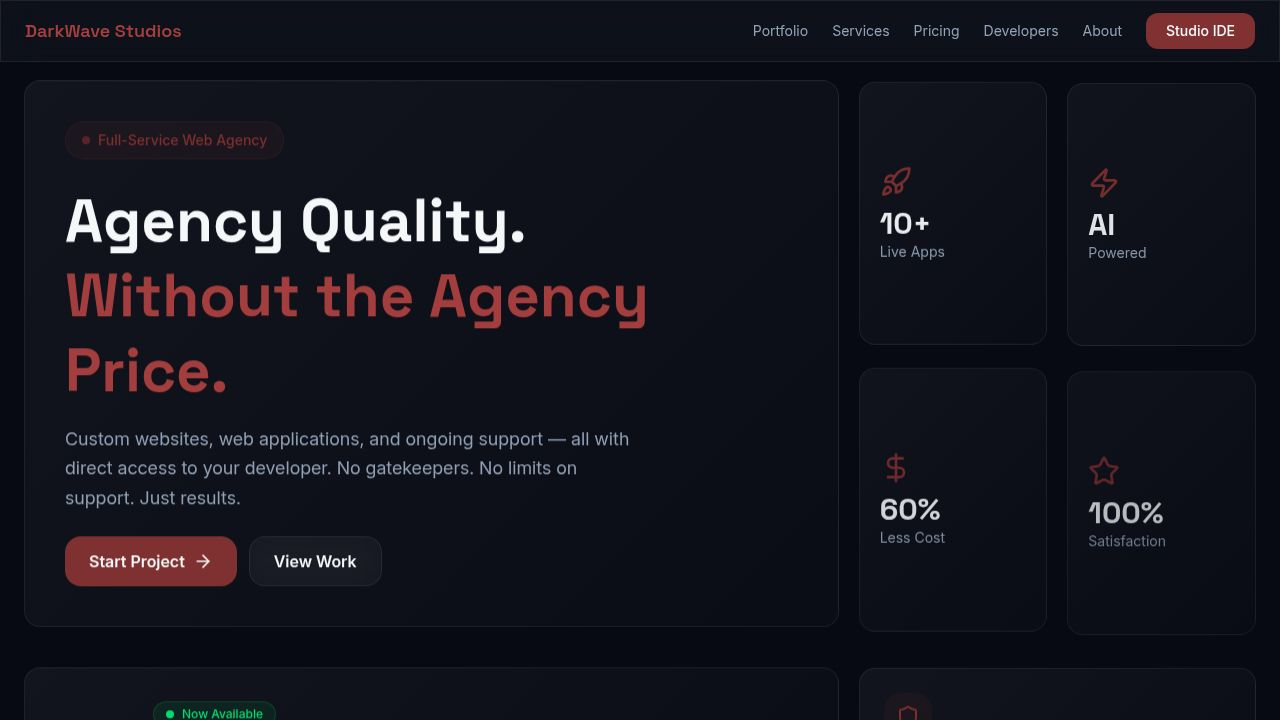
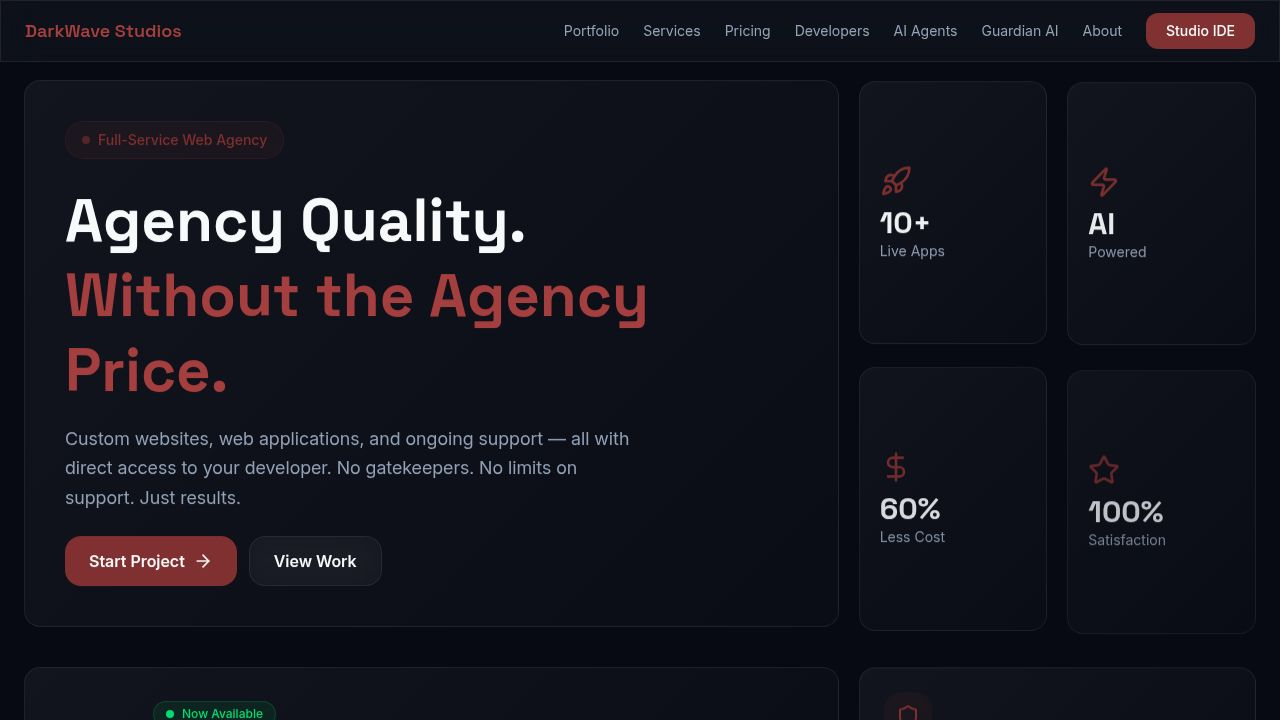
Add AI Agent Marketplace to navigation and developer pages
Integrate the AI Agent Marketplace by adding links to the main navigation (desktop and mobile), footer, and the Developers page. Update replit.md to document this new integration.

Replit-Commit-Author: Agent
Replit-Commit-Session-Id: fd631e83-bc81-4f88-98c7-1c24e1e757e1
Replit-Commit-Checkpoint-Type: full_checkpoint
Replit-Commit-Event-Id: db26af7d-c20c-48e6-8ca2-0f40b88cb56d
Replit-Commit-Screenshot-Url: https://storage.googleapis.com/screenshot-production-us-central1/58d7295e-4eca-40d3-ac5d-67adee4e19c6/fd631e83-bc81-4f88-98c7-1c24e1e757e1/9StZjAx
Replit-Helium-Checkpoint-Created: true

diff --git a/client/src/pages/Home.tsx b/client/src/pages/Home.tsx
@@ -325,6 +325,17 @@ export default function Home() {
                 >
                   Developers
                 </Link>
+                <a 
+                  href="https://dwsc.io/ai-agents" 
+                  target="_blank"
+                  rel="noopener noreferrer"
+                  onClick={() => setMobileMenuOpen(false)}
+                  className="text-sm text-foreground hover:text-primary transition-colors py-2 pl-3 flex items-center gap-2"
+                  data-testid="nav-ai-agents-mobile"
+                >
+                  AI Agents
+                  <ExternalLink className="w-3 h-3" />
+                </a>
                 <Link 
                   href="/hub" 
                   onClick={() => setMobileMenuOpen(false)}
@@ -417,6 +428,7 @@ export default function Home() {
               <Link href="/services" className="text-sm text-muted-foreground hover:text-foreground transition-colors" data-testid="nav-services">Services</Link>
               <Link href="/payment" className="text-sm text-muted-foreground hover:text-foreground transition-colors" data-testid="nav-pricing">Pricing</Link>
               <Link href="/developers" className="text-sm text-muted-foreground hover:text-foreground transition-colors" data-testid="nav-developers">Developers</Link>
+              <a href="https://dwsc.io/ai-agents" target="_blank" rel="noopener noreferrer" className="text-sm text-muted-foreground hover:text-foreground transition-colors" data-testid="nav-ai-agents">AI Agents</a>
               <Link href="/guardian-ai" className="text-sm text-muted-foreground hover:text-foreground transition-colors" data-testid="nav-guardian">Guardian AI</Link>
               <Link href="/about" className="text-sm text-muted-foreground hover:text-foreground transition-colors" data-testid="nav-about">About</Link>
               <a 
@@ -1038,6 +1050,15 @@ export default function Home() {
                   <Link href="/developers" className="hover:text-primary transition-colors">Developers</Link>
                 </div>
                 <div className="flex flex-col gap-2">
+                  <a 
+                    href="https://dwsc.io/ai-agents" 
+                    target="_blank"
+                    rel="noopener noreferrer"
+                    className="text-xs lg:text-sm text-muted-foreground hover:text-foreground transition-colors flex items-center gap-1" 
+                    data-testid="footer-link-ai-agents"
+                  >
+                    AI Agents <ExternalLink className="w-3 h-3" />
+                  </a>
                   <Link href="/hub" className="text-xs lg:text-sm text-muted-foreground hover:text-foreground transition-colors" data-testid="footer-link-hub">Trust Layer Hub</Link>
                   <Link href="/guardian-ai" className="text-xs lg:text-sm text-muted-foreground hover:text-foreground transition-colors" data-testid="footer-link-guardian">Guardian AI</Link>
                   <a 

diff --git a/client/src/pages/Developers.tsx b/client/src/pages/Developers.tsx
@@ -17,6 +17,16 @@ import { SEOHead, BreadcrumbSchema } from "@/components/SEOHead";
 
 const developerProducts = [
   {
+    id: "agents",
+    title: "AI Agent Marketplace",
+    description: "Create, deploy, and discover autonomous AI agents. Build trading bots, DeFi agents, NFT snipers, and more.",
+    icon: Bot,
+    href: "https://dwsc.io/ai-agents",
+    external: true,
+    gradient: "from-emerald-500 to-teal-500",
+    features: ["Agent builder", "Smart contract integration", "Revenue sharing", "Guardian AI certified"]
+  },
+  {
     id: "hub",
     title: "Trust Layer Hub",
     description: "Blockchain-verified widget marketplace with 12+ embeddable components for analytics, booking, lead capture, and more.",

diff --git a/replit.md b/replit.md
@@ -83,6 +83,13 @@ The platform includes a blockchain-verified code marketplace:
 - **Full Code View**: Modal displaying complete widget source code
 - **Categories**: Components, utilities, hooks, API, auth
 
+### AI Agent Marketplace
+External platform for creating, deploying, and discovering AI agents:
+- **URL**: https://dwsc.io/ai-agents
+- **Agent Types**: Trading bots, DeFi agents, NFT agents, social agents, analytics agents
+- **Features**: Agent builder, smart contract integration, Trust Layer recording, revenue sharing
+- **Integration**: Cross-links to Guardian AI for agent certification
+
 ### Guardian AI
 AI agent certification platform for the crypto ecosystem:
 - **Certification Tiers**: Basic ($999), Professional ($4,999), Enterprise ($14,999)
